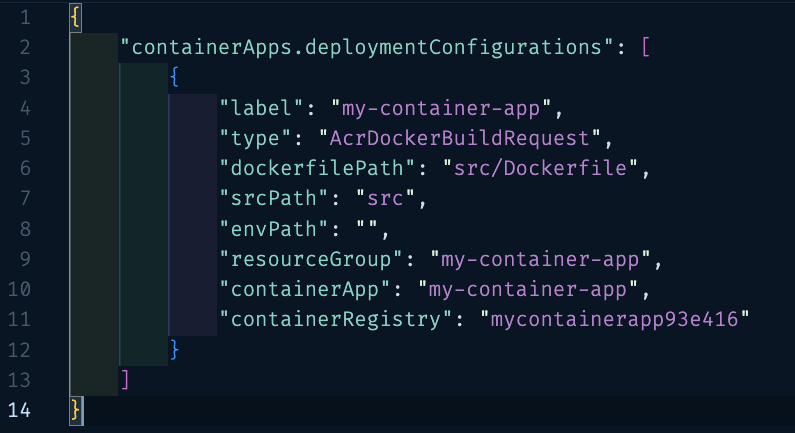
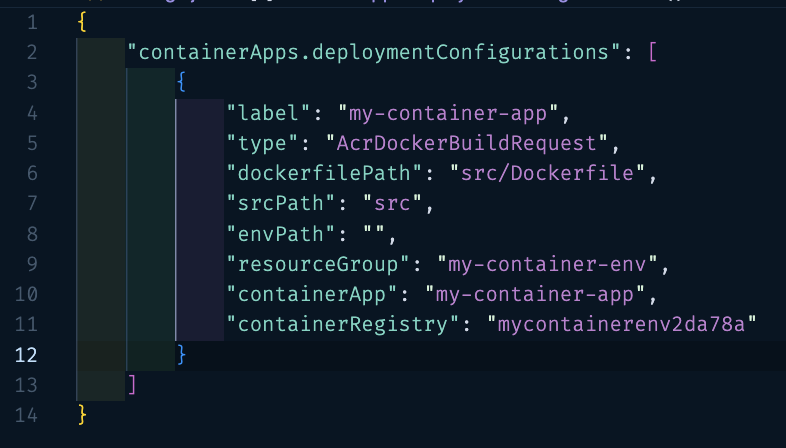
Updated images

diff --git a/resources/walkthrough/create-and-deploy.md b/resources/walkthrough/create-and-deploy.md
@@ -3,9 +3,9 @@
 | Select subscription | Select the Azure subscription you want to use. |
 | Select a container apps environment | Select: <b>Create new container apps environment</b>. You will only be asked this question if you have existing container apps environments. |
 | Confirm resources to create | Select: <b>Continue</b> |
-| Enter a name for the new container apps environment | Enter: <b>my-container-app</b> |
+| Enter a name for the new container app environment resources | Enter: <b>my-container-env</b> |
 | Enter a name for the new container app | Enter: <b>my-container-app</b> |
 | Provide a source code directory for upload | Select: <b>./src</b> |
 | Select a location | Select an Azure region close to you. |
 | Save deployment configuration | Select: <b>Save</b> |
-| <i>On completion<i>: | <details><summary>View Save Configuration: </summary><p>`.vscode/settings.json`:</p><img src="./images/dwp-saved-settings.png"></details> <details><summary>View Activity Log: </summary><img src="./images/dwp-activity-log.png"></details> <details><summary>View Deployment: </summary><img src="./images/dwp-popup.png"></details> <details><summary>View Azure Resources Tree: </summary><img src="./images/dwp-resource-tree.png"></details> |
+| <i>On completion<i>: | <details><summary>View Save Configuration: </summary><p>`.vscode/settings.json`:</p><img src="./images/dwp-saved-settings.png"></details> <details><summary>View Activity Log: </summary><img src="./images/dwp-activity-log.png"></details> <details><summary>View Deployment: </summary><img src="./images/dwp-popup.png"></details> <details><summary>View Azure Resources Tree (Resource Type): </summary><img src="./images/dwp-tree-resource-type.png"></details> <details><summary>View Azure Resources Tree (Resource Group): </summary><img src="./images/dwp-tree-resource-group.png"></details> |

diff --git a/resources/walkthrough/clean-up-resources.md b/resources/walkthrough/clean-up-resources.md
@@ -1,5 +1,5 @@
 | Prompt | Value |
 |--------|-------|
 | Select subscription | Select the Azure subscription used in the previous step. |
-| Select resource group(s) | Select <b>my-container-app</b> and press enter. |
+| Select resource group(s) | Select <b>my-container-env</b> and press enter. |
 | Confirm resources to delete | Select: <b>Delete</b> |
